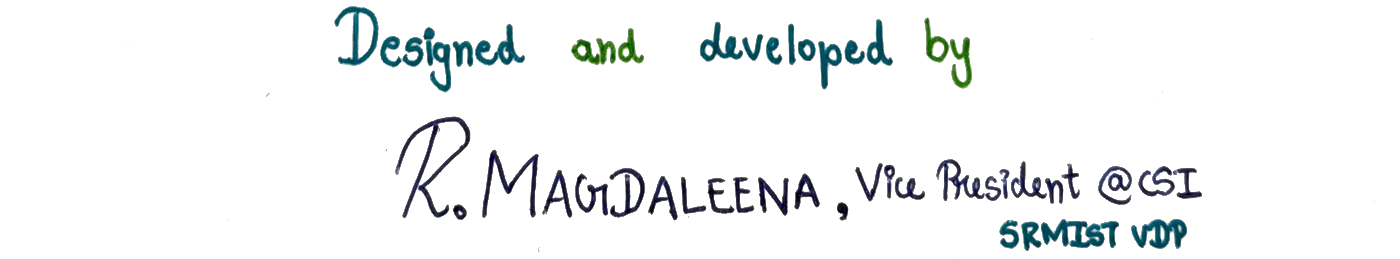
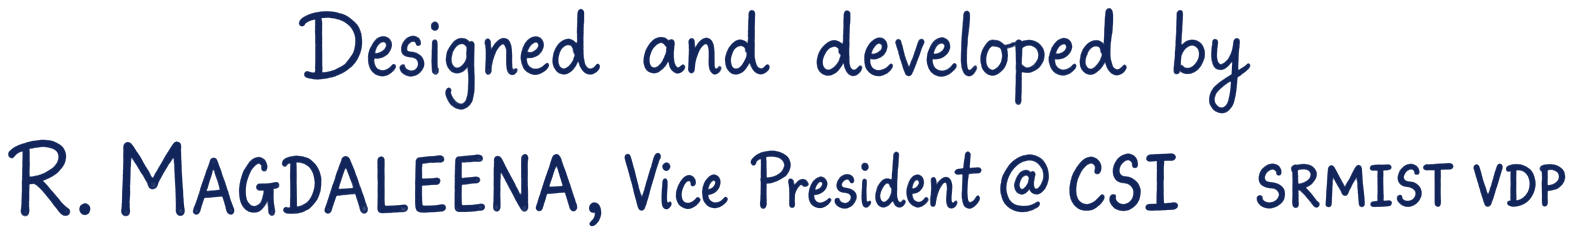
Redraw the credit in one ink, keyed on colour
New artwork: two lines, single navy, nothing under twelve pixels. The knockout
now keys on blueness rather than brightness — every artefact in the source
(vignetting, banding, a lighter patch of ground) is neutral, so a brightness
threshold reads those as ink while a colour one cannot. Strokes are repainted
in the palette navy, then trimmed to the writing with a small even pad, which
fixes the off-centre sit of the previous version.

Sits at 80% in the footer so it settles to colophon weight instead of
outranking the chapter name above it.

Changed region(s): [[0.0, 0.0298, 1.0, 0.983]]

diff --git a/components/layout/Footer.tsx b/components/layout/Footer.tsx
@@ -71,9 +71,9 @@ export function Footer() {
           <Image
             src="/images/brand/credit.png"
             alt="Designed and developed by R. Magdaleena, Vice President at CSI SRMIST VDP"
-            width={1400}
-            height={259}
-            className="w-full max-w-[22rem] sm:max-w-[26rem]"
+            width={1574}
+            height={235}
+            className="w-full max-w-[19rem] opacity-80 sm:max-w-[23rem]"
           />
         </div>
       </div>

diff --git a/scripts/knockout-credit.py b/scripts/knockout-credit.py
@@ -1,49 +1,62 @@
 """
-Lifts the handwritten credit off its paper.
+Lifts the handwritten credit off whatever it was shot or drawn on.
 
-The sheet is unevenly lit, so a flat threshold either eats the pale green ink
-or leaves a grey rectangle. Instead the paper is estimated with a heavy blur
-and each pixel is measured against its own local background: ink is whatever
-sits darker or more saturated than the paper around it.
+Works either polarity: ink darker than the sheet (a photograph of paper) or
+lighter than it (light writing on a dark canvas). The background is estimated
+with a heavy blur, so each pixel is judged against its own surroundings rather
+than one global threshold, which is what uneven lighting and vignetting break.
+
+The result is repainted in a single brand ink, so the strokes match the palette
+exactly and carry no halo from the original background.
 """
 from pathlib import Path
+import sys
 
 import numpy as np
 from PIL import Image, ImageFilter, ImageOps
 
-SRC = Path.home() / "Downloads" / "WhatsApp Image 2026-08-22 at 13.22.19.jpeg"
+SRC = Path(sys.argv[1] if len(sys.argv) > 1 else "")
 OUT = Path("public/images/brand/credit.png")
+INK = (18, 38, 92)          # --color-navy
+WIDTH = 1600
+PAD = 8                     # breathing room left after trimming, in pixels
 
 img = ImageOps.exif_transpose(Image.open(SRC)).convert("RGB")
-width = 1400
-img = img.resize((width, round(img.height * width / img.width)), Image.LANCZOS)
+img = img.resize((WIDTH, round(img.height * WIDTH / img.width)), Image.LANCZOS)
 
 rgb = np.asarray(img, dtype=np.float32) / 255.0
-paper = np.asarray(img.filter(ImageFilter.GaussianBlur(45)), dtype=np.float32) / 255.0
+bg = np.asarray(img.filter(ImageFilter.GaussianBlur(45)), dtype=np.float32) / 255.0
 
-# How much darker than the local paper, per channel; ink shows on its darkest.
-darkness = np.clip(1.0 - rgb / np.maximum(paper, 1e-3), 0.0, 1.0).max(axis=2)
+# Key on colour, not brightness. The writing is blue; every artefact in the
+# source — vignetting, banding, a lighter patch of canvas — is neutral, so a
+# brightness threshold picks those up as ink and a colour one cannot.
+def blueness(a):
+    return a[..., 2] - np.maximum(a[..., 0], a[..., 1])
 
-# Coloured ink can sit as bright as paper, so saturation carries it too.
-mx = rgb.max(axis=2)
-mn = rgb.min(axis=2)
-saturation = np.where(mx > 1e-3, (mx - mn) / np.maximum(mx, 1e-3), 0.0)
-paper_sat_mx = paper.max(axis=2)
-paper_sat_mn = paper.min(axis=2)
-paper_sat = np.where(
-    paper_sat_mx > 1e-3, (paper_sat_mx - paper_sat_mn) / np.maximum(paper_sat_mx, 1e-3), 0.0
-)
-extra_sat = np.clip(saturation - paper_sat, 0.0, 1.0)
+signal = np.clip(blueness(rgb) - blueness(bg), 0.0, 1.0)
 
-alpha = np.clip(np.maximum(darkness * 2.6, extra_sat * 2.2), 0.0, 1.0)
-alpha[alpha < 0.18] = 0.0          # kill paper grain and pencil ghosts
-alpha = np.clip((alpha - 0.18) / 0.82, 0.0, 1.0)
+alpha = np.clip(signal * 5.0, 0.0, 1.0)
+floor = 0.12
+alpha[alpha < floor] = 0.0
+alpha = np.clip((alpha - floor) / (1.0 - floor), 0.0, 1.0)
 
-# Rebuild the ink colour as if it were laid on white, so the strokes keep their
-# hue instead of picking up the paper's warmth.
-ink = np.clip(1.0 - (1.0 - rgb) / np.maximum(alpha[..., None], 1e-3), 0.0, 1.0)
-ink = np.where(alpha[..., None] > 0, ink, 1.0)
+out = np.zeros((*alpha.shape, 4), dtype=np.float32)
+out[..., 0] = INK[0] / 255.0
+out[..., 1] = INK[1] / 255.0
+out[..., 2] = INK[2] / 255.0
+out[..., 3] = alpha
 
-out = np.dstack([ink, alpha])
-Image.fromarray((out * 255).astype(np.uint8), mode="RGBA").save(OUT, optimize=True)
-print(OUT, img.size, OUT.stat().st_size // 1024, "KB")
+ink = Image.fromarray((out * 255).astype(np.uint8), mode="RGBA")
+
+# Trim to the writing itself. Left-over margin is what made the last version
+# sit visually off-centre inside its own box.
+box = ink.split()[-1].getbbox()
+if box:
+    left = max(0, box[0] - PAD)
+    top = max(0, box[1] - PAD)
+    right = min(ink.width, box[2] + PAD)
+    bottom = min(ink.height, box[3] + PAD)
+    ink = ink.crop((left, top, right, bottom))
+
+ink.save(OUT, optimize=True)
+print(OUT, ink.size, OUT.stat().st_size // 1024, "KB")
